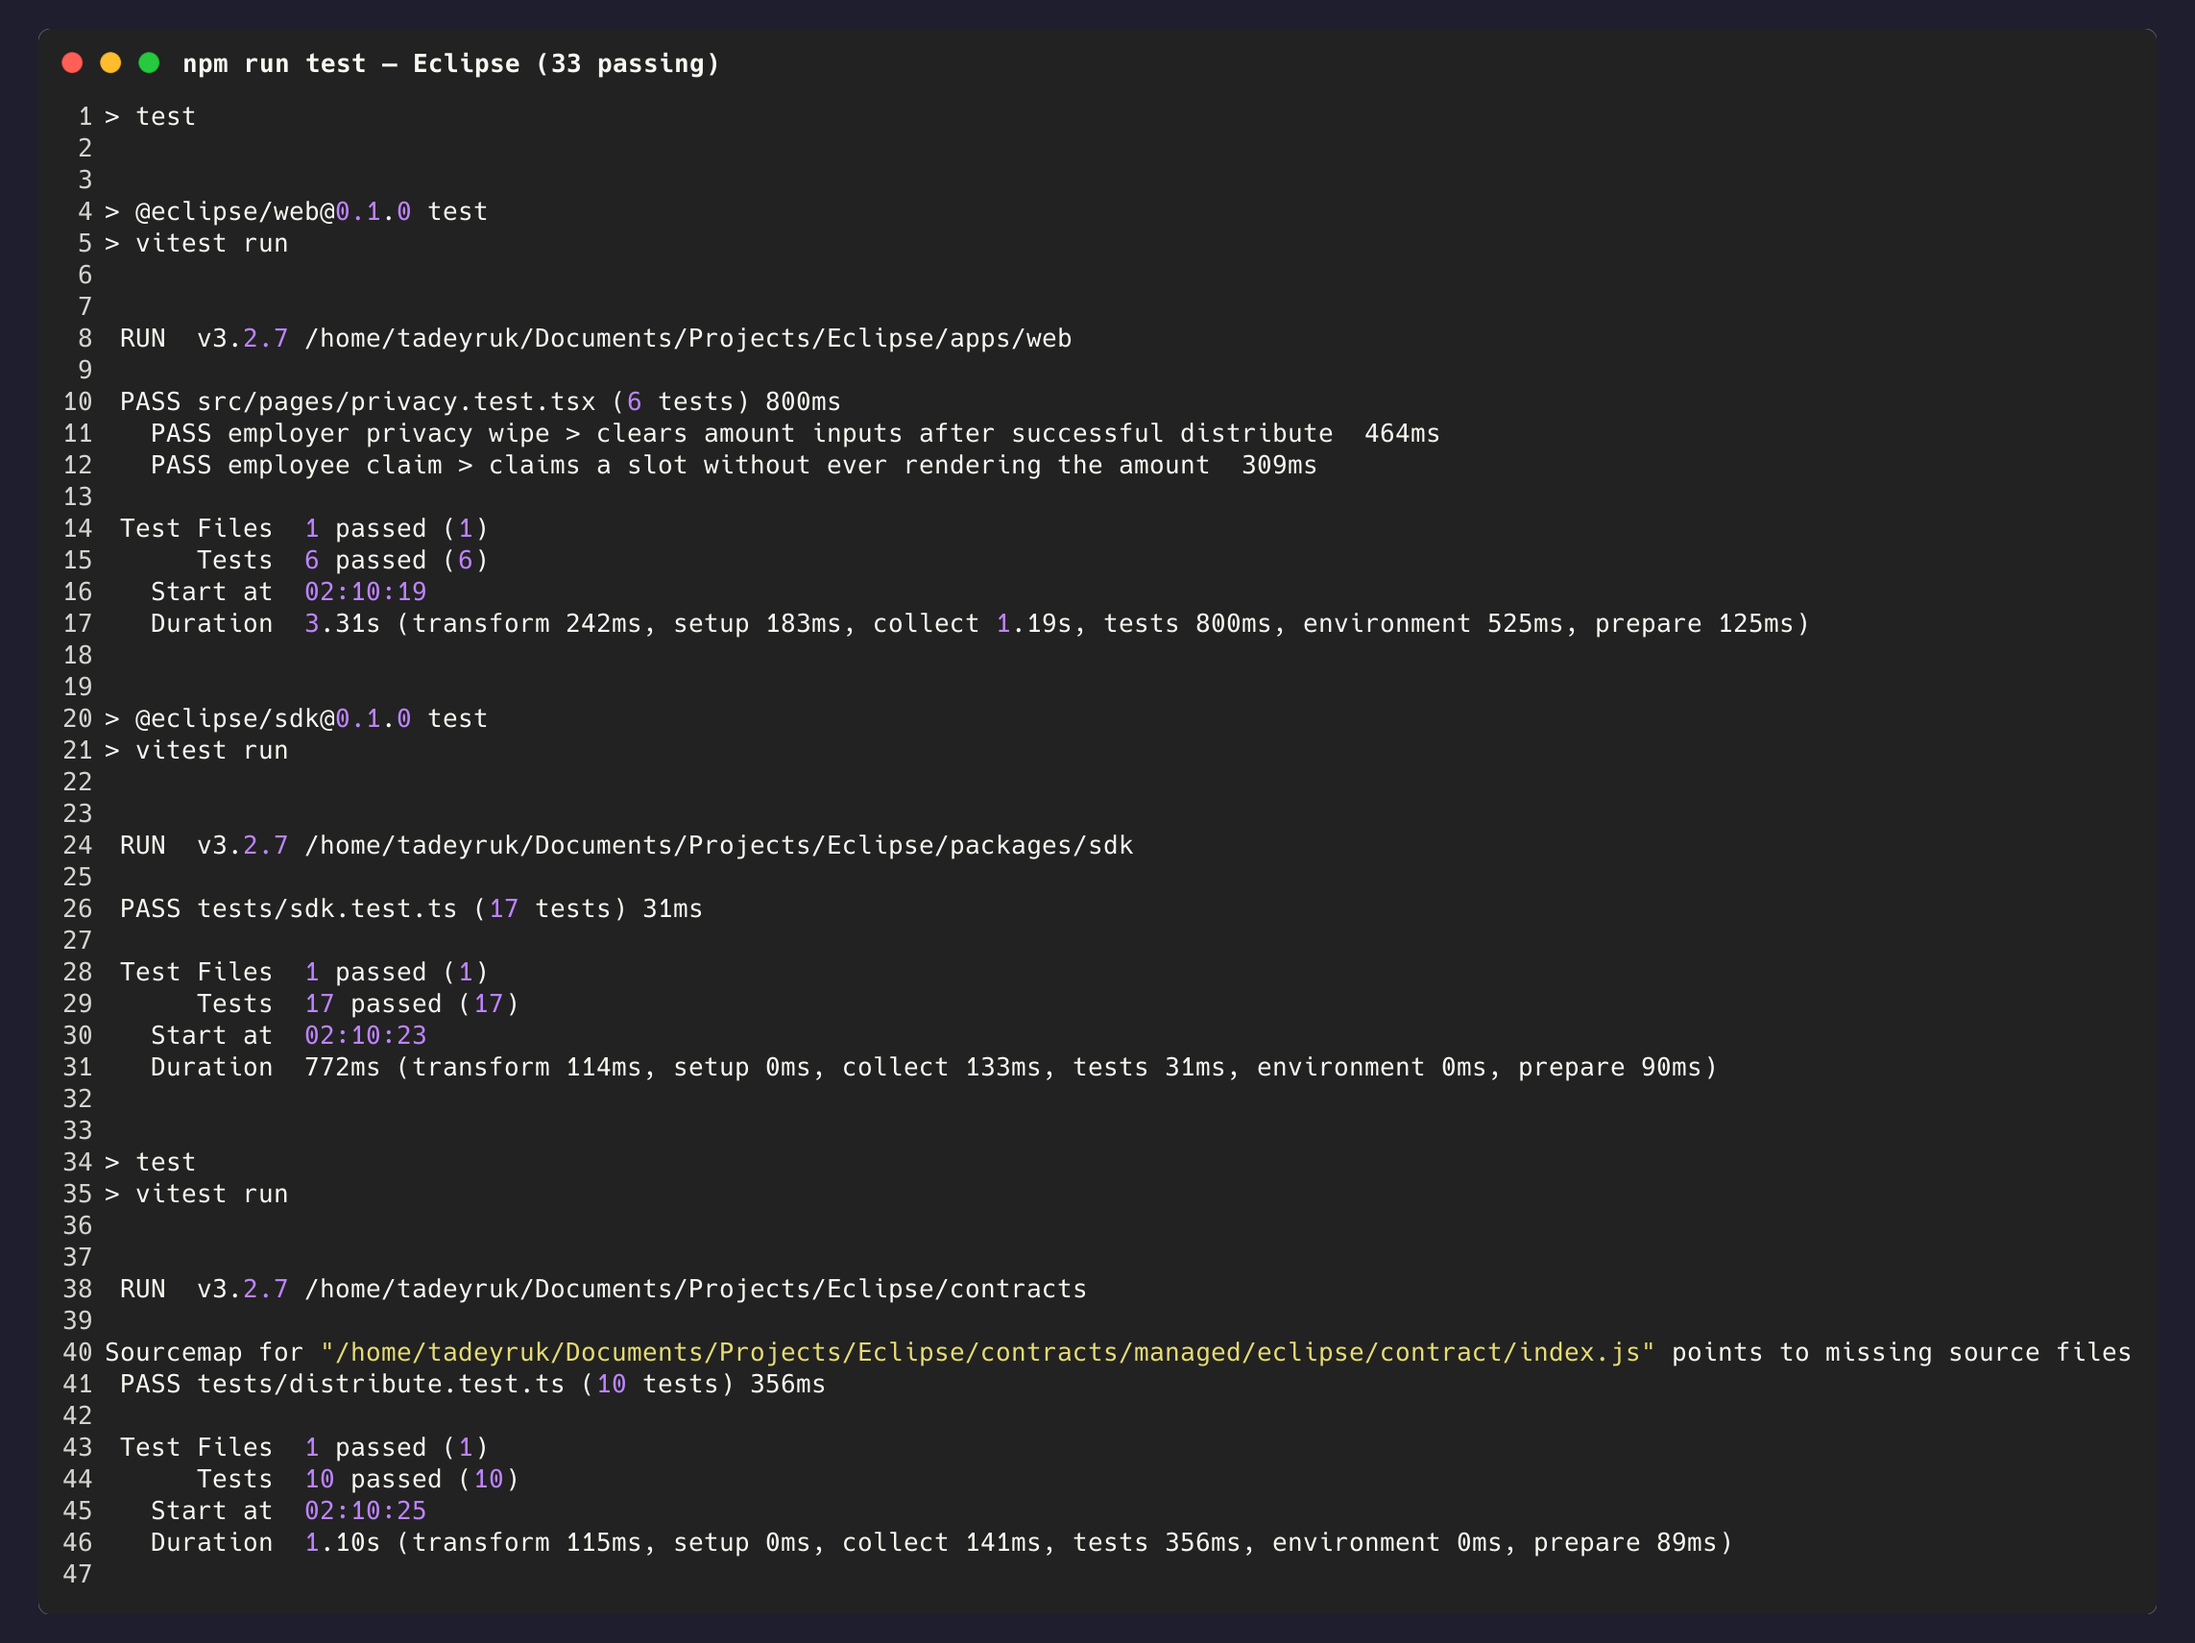
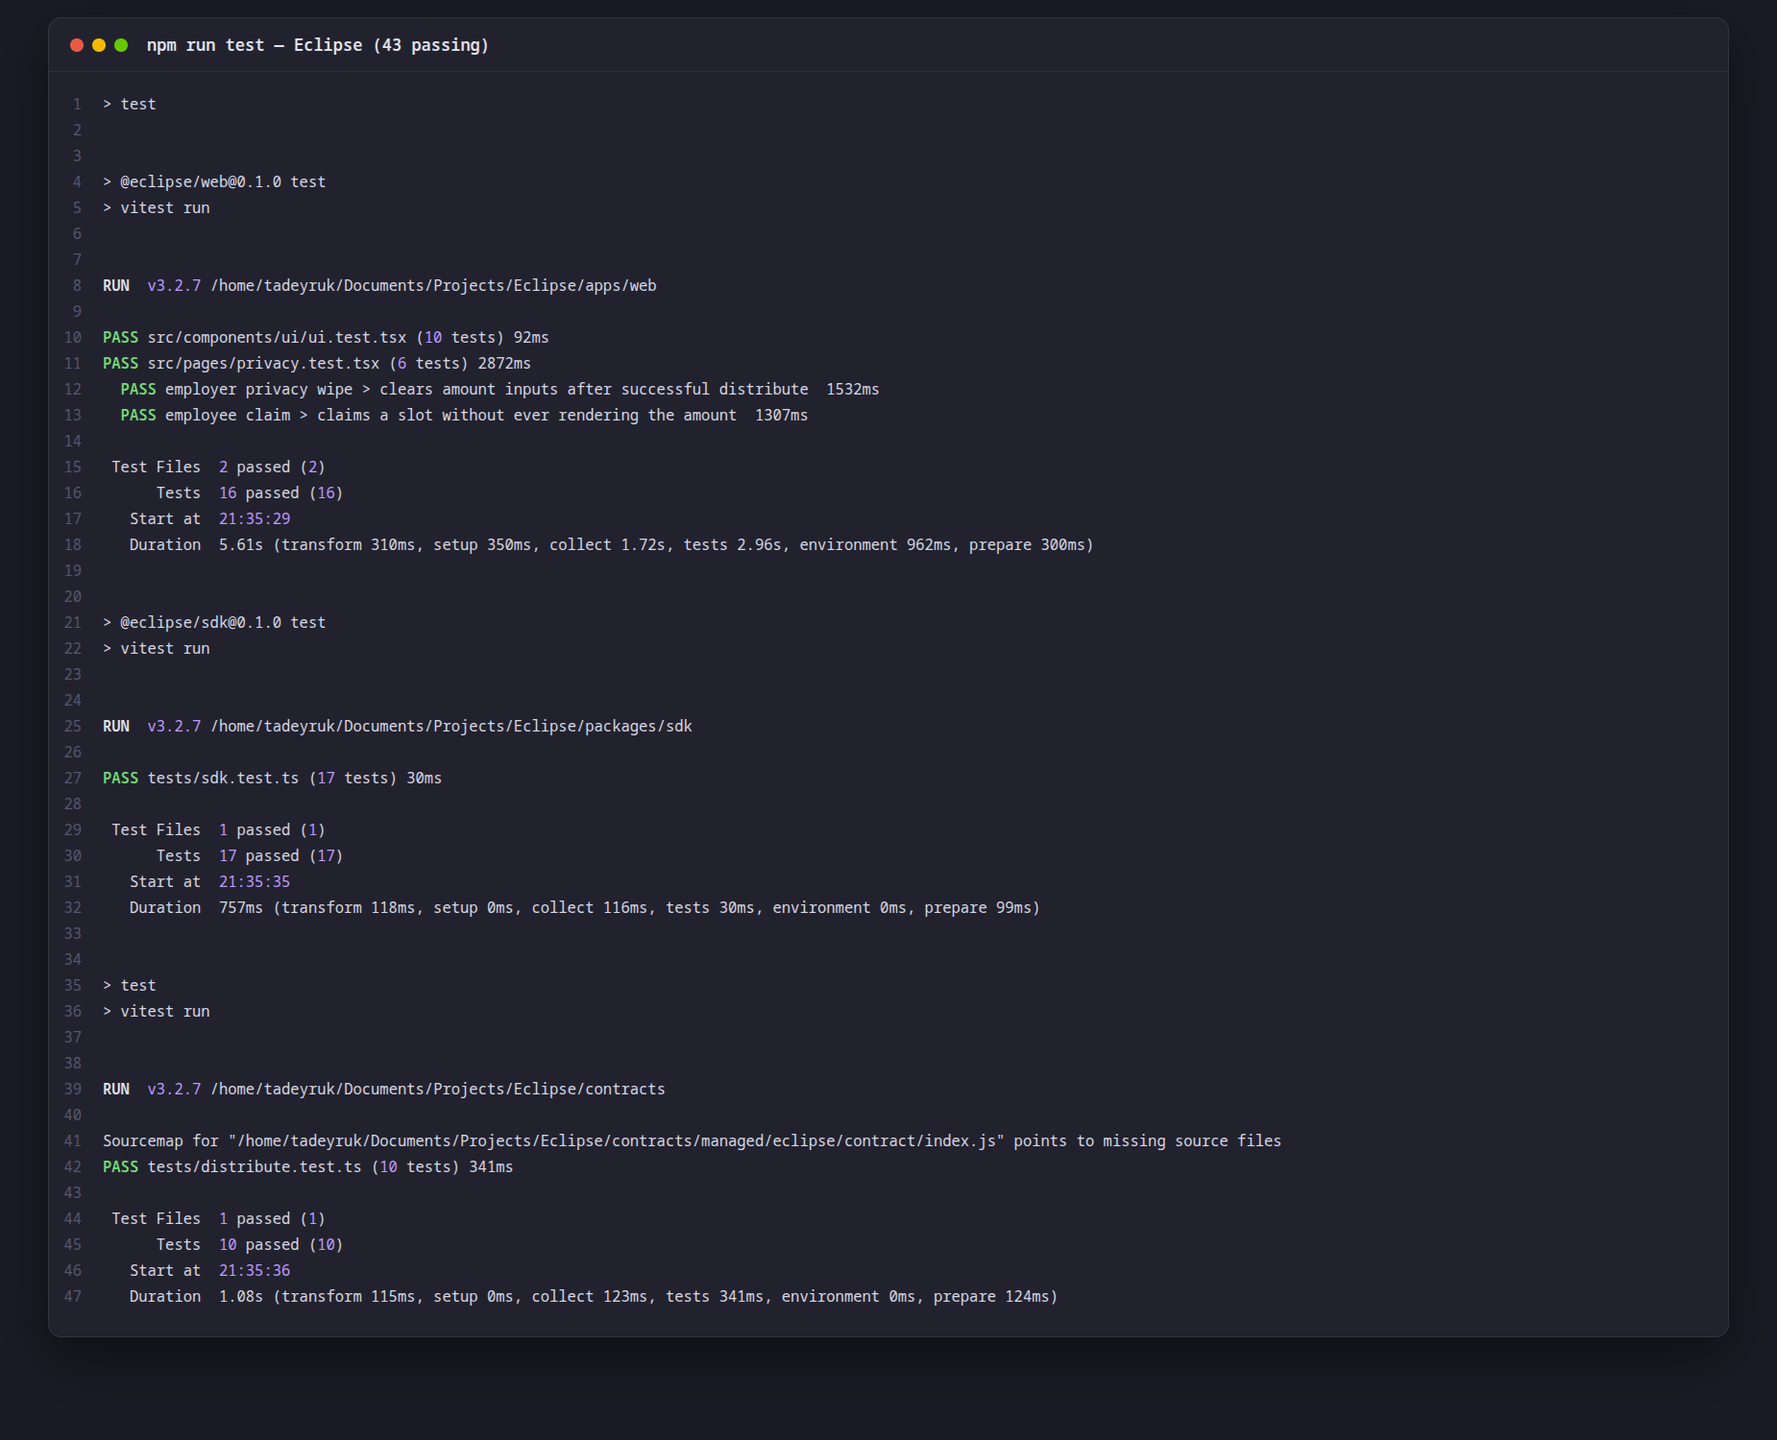
docs: sync test count to 43 and refresh test-output evidence
README.md and docs/proposal.md still said 33 tests after the
worktree-ui-visual-overhaul merge added a 10-test ui.test.tsx
(Card/Tag/Button/Pill/StatChip/GradientField primitives), bringing
the real total to 43 (10 contract, 17 SDK, 16 web). Regenerated
docs/evidence/l3-tests.png from an actual npm test run so the
screenshot matches.

diff --git a/docs/proposal.md b/docs/proposal.md
@@ -99,7 +99,8 @@ Stating these up front, because a proposal that hides them is not a scoped propo
 - ✅ Recipient flow: `claim` circuit proving "I am owed my committed amount" without stating the
   amount — done, with receipt openings held in local private storage
 - ✅ CI/CD: typecheck + test + build on every push, badge in README — done, green
-- ✅ Test suite well above the 3-test minimum — 33 passing (10 contract, 17 SDK, 6 web privacy)
+- ✅ Test suite well above the 3-test minimum — 43 passing (10 contract, 17 SDK, 16 web — 6 privacy,
+  10 UI primitives)
 - ✅ Full README privacy-model section — done
 - Employer flow: real FungibleToken transfer-in replacing the L1 stub
 - Redeploy to Preprod carrying the `claim` circuit
@@ -125,7 +126,7 @@ Levels 1 and 2 are complete, which is the evidence that this scope is real rathe
 | Gate 0 — sum-proof spike | Done — the payroll invariant compiled and tested before any UI work began |
 | Level 1 — New Moon | Filed 2026-07-20 — Preprod deploy, `managed/`, README, evidence |
 | Level 2 — Waxing Crescent | Code-complete — Lace connect/disconnect, circuit from frontend, dual-view privacy demo, live demo, video |
-| Level 3 — First Quarter | In progress — `claim` circuit, CI, and 33 tests landed; this proposal |
+| Level 3 — First Quarter | In progress — `claim` circuit, CI, and 43 tests landed; this proposal |
 
 Eclipse did not ship a throwaway counter contract for Level 1. The sum-proof circuit that carries
 the entire privacy claim was the first thing built, deliberately, so that the hard part was proven
